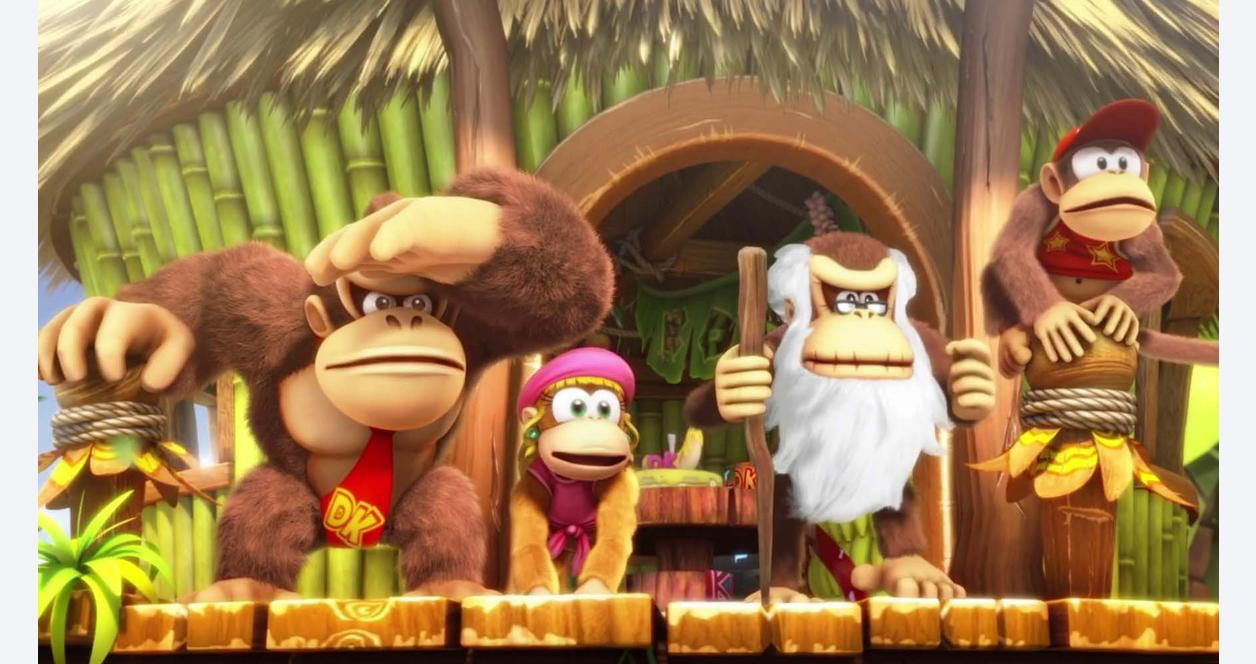
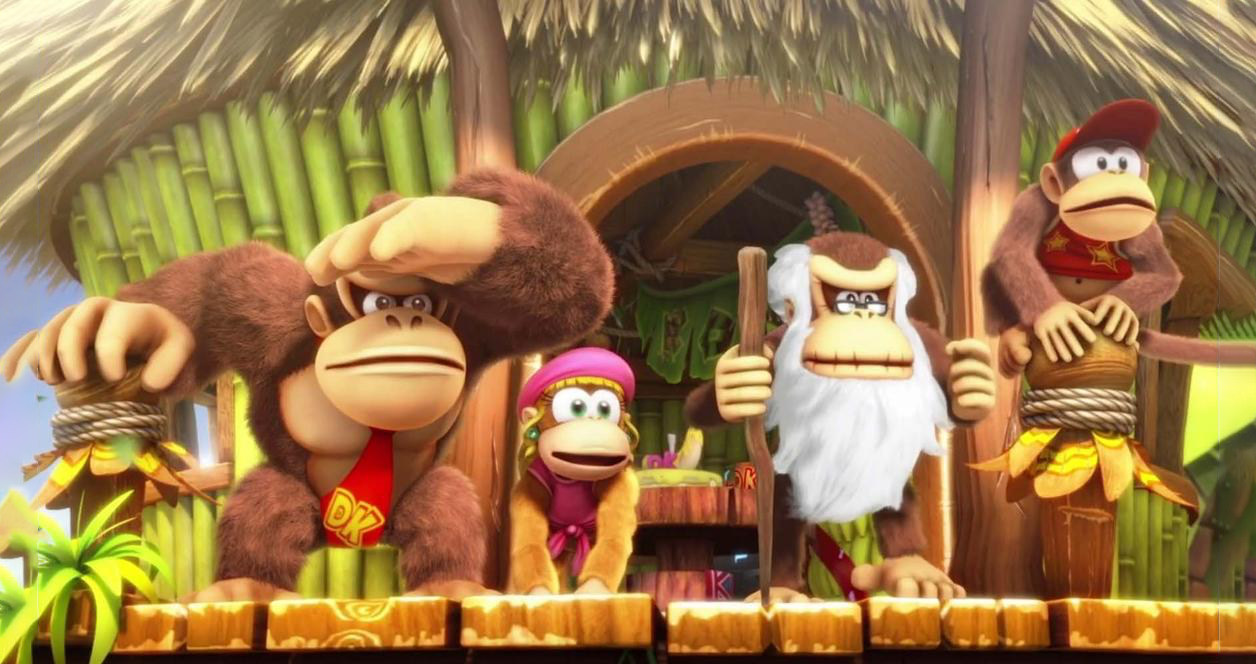
Adjust event formatting, adjust donkey kong image size

Changed region(s): [[0.9626, 0.0, 1.0, 1.0], [0.0, 0.0, 0.0621, 1.0]]

diff --git a/static/css/main.css b/static/css/main.css
@@ -140,7 +140,7 @@ body, html {
     font-size: 18px;
     color: #003E1F; 
     font-weight: 500;
-    margin-top: -1%;
+    margin-top: -4%;
     font-family: sans-serif;
 }
 
@@ -151,8 +151,6 @@ body, html {
     padding: 10px 20px;
     width: 100%;
 }
-
-
 
 .events-wrapper {
     display: flex;
@@ -165,14 +163,16 @@ body, html {
 .event {
     display: flex;
     flex-direction: column;
-    width: 400px;
+    width: 350px;
     font-family: Arial, sans-serif;
+    outline-color: #004085;
+    outline-width: 10px;
 }
 
 .event-name {
     font-size: 20px;
     font-weight: bold;
-    margin-bottom: 10px;
+    margin-bottom: 3px;
     text-align: left;
     margin-left: 10px;
 }
@@ -191,6 +191,7 @@ body, html {
     font-size: 18px;
     font-weight: bold;
     z-index: 2;
+    text-shadow: 2px 2px 3px black;
 }
 
 .event-time {
@@ -217,6 +218,7 @@ body, html {
     background-size: cover;
     opacity: 1;
     overflow: hidden;
+    box-shadow: 0 4px 10px rgba(0, 0, 0, 0.25);
 }
 
 .event-image2 {
